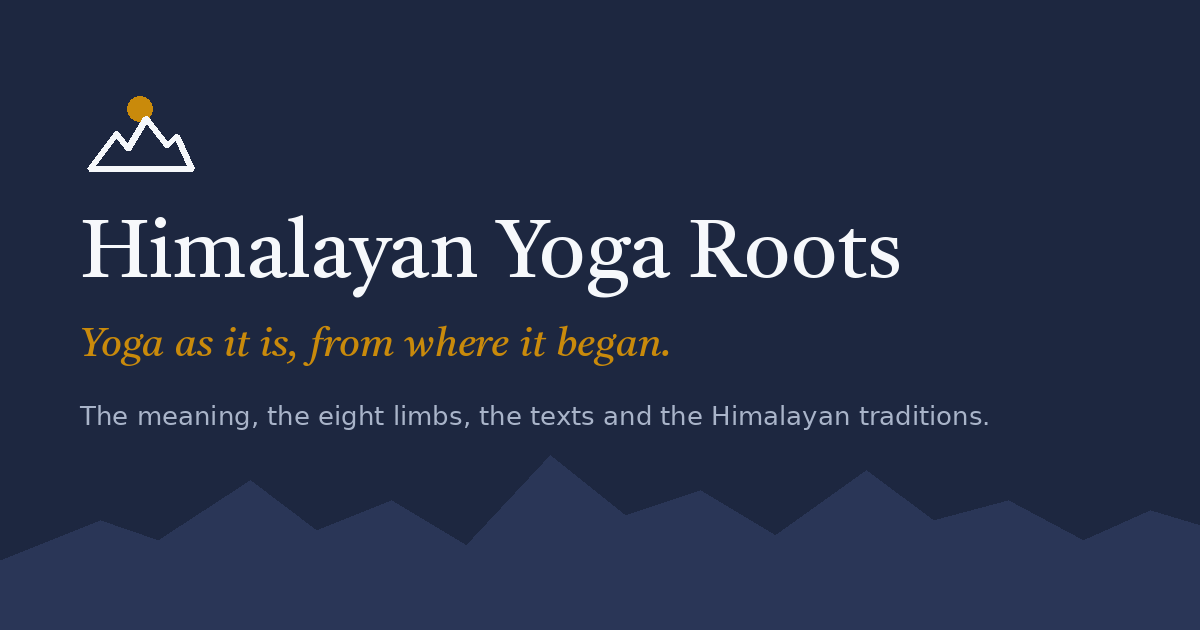
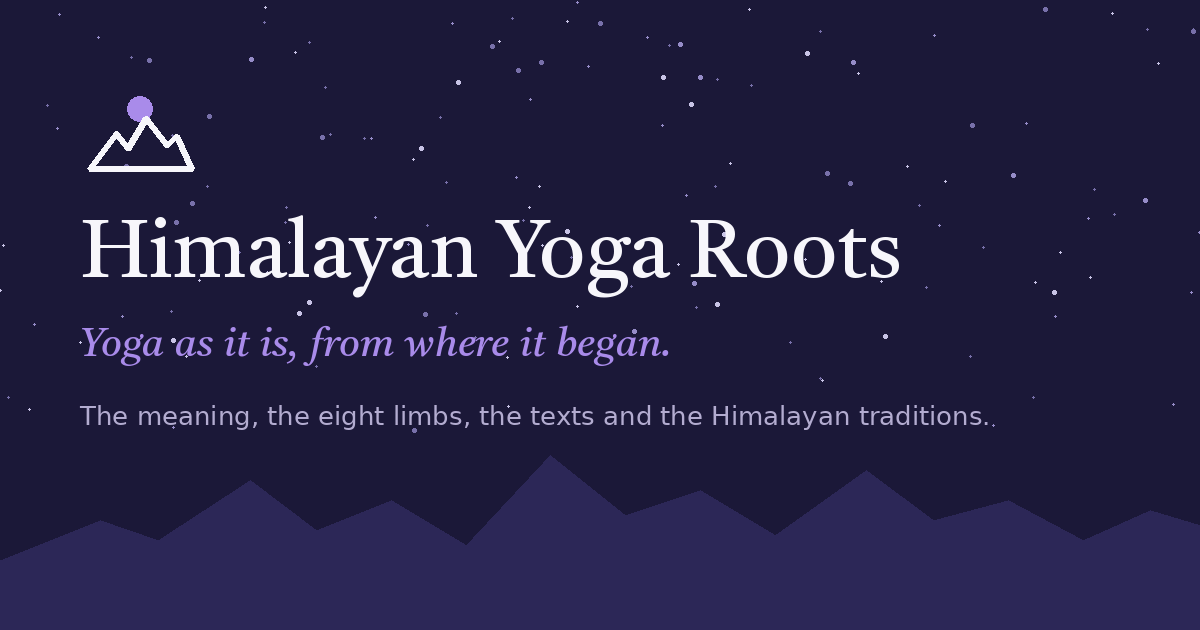
New palette: akasha night violet, moonlight and Sahasrara violet accent; starfield hero
Claude-Session: https://claude.ai/code/session_0177TkPySAK3zLPGMpE7DQjU

Changed region(s): [[0.0617, 0.5127, 0.555, 0.573], [0.0925, 0.1508, 0.1233, 0.2111]]

diff --git a/src/styles/global.css b/src/styles/global.css
@@ -1,18 +1,19 @@
 /* Himalayan Yoga Roots — design tokens
-   Pre-dawn Himalayan palette: deep Kailash indigo, cool snow, glacier blue, slate,
-   and one accent, sadhu saffron, used sparingly. */
+   Ākāśa palette: the deep violet-indigo of the night sky (vastness), moonlight white
+   (Sahasrara in the traditional texts: "whiter than the full moon") and Sahasrara violet
+   (its colour in the modern chakra system) as the one accent. */
 :root {
-  --indigo: #1D2740;      /* night sky over the range: header, hero, footer, headings */
-  --indigo-2: #2A3657;    /* raised surfaces on indigo */
-  --snow: #F6F8FB;        /* page background (cool, not cream) */
-  --glacier: #E3EAF3;     /* quiet section background */
-  --slate: #55607A;       /* secondary text */
-  --ink: #1A2133;         /* body text */
-  --saffron: #C98A0B;     /* the one accent */
-  --saffron-deep: #9A6800;/* accent text on light backgrounds (AA contrast) */
-  --line: #CDD6E3;
-  --on-indigo: #E9EEF6;
-  --on-indigo-muted: #A9B4C9;
+  --indigo: #1B1838;      /* ākāśa, the night sky: header, hero, footer, headings */
+  --indigo-2: #2C2757;    /* raised surfaces on the night sky */
+  --snow: #F7F6FB;        /* moonlight: page background */
+  --glacier: #ECE8F6;     /* lavender mist: quiet section background */
+  --slate: #5C5873;       /* secondary text */
+  --ink: #1E1B2E;         /* body text */
+  --saffron: #A98BEA;     /* Sahasrara violet: the one accent, on dark backgrounds */
+  --saffron-deep: #5B3FA8;/* deep violet: accent on light backgrounds (AA contrast) */
+  --line: #D9D4EA;
+  --on-indigo: #EEEBF8;
+  --on-indigo-muted: #B3ACD0;
 
   --display: 'Tiro Devanagari Sanskrit', 'Iowan Old Style', Georgia, serif;
   --text: 'Hanken Grotesk', system-ui, -apple-system, 'Segoe UI', sans-serif;

diff --git a/README.md b/README.md
@@ -25,7 +25,7 @@ npm run dev
   </div>
   ```
 - `src/data/site.ts`: site name, email and the five sections.
-- `src/styles/global.css`: design tokens (Kailash indigo, snow, glacier, slate, saffron; Tiro Devanagari
+- `src/styles/global.css`: design tokens (ākāśa night violet, moonlight, lavender mist, slate, Sahasrara violet accent; Tiro Devanagari
   Sanskrit + Hanken Grotesk).
 - `src/pages/`: home, section hubs, about, retreats, contact, privacy, terms.
 
